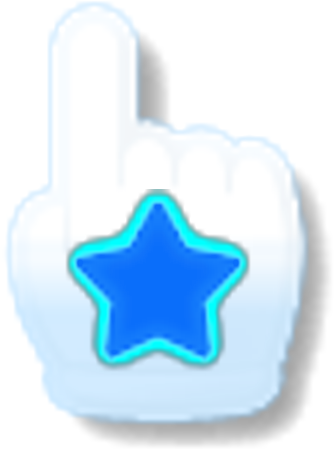
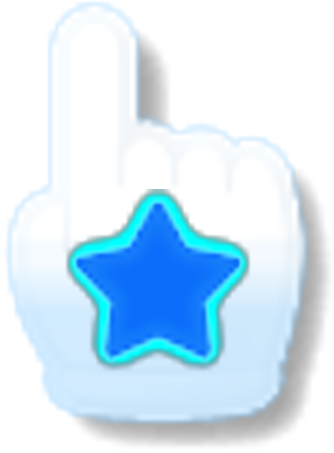
Cursor grips while clicking; together. fades in with reduced motion
The hand closes into the game's grip (HandPointerGrip from DPDPointer.arc)
while a mouse button is held: hand-cursor.js sets html.hand-grip, which
swaps the cursor variables in theme.css and docs.css.

With reduced motion on, together. used to just sit there; it now fades in
after the line instead of streaking in.

Claude-Session: https://claude.ai/code/session_01XvfxEsW8qNes6pdDzP8TgB

diff --git a/website/theme.css b/website/theme.css
@@ -57,6 +57,11 @@ html {
   --star-cursor-hover: url('/cursor/hand-pointer.png') 8 4, pointer;
   cursor: var(--star-cursor);
 }
+/* While a mouse button is held the hand grips (hand-cursor.js). */
+html.hand-grip {
+  --star-cursor: url('/cursor/hand-grip.png') 8 4, auto;
+  --star-cursor-hover: url('/cursor/hand-grip.png') 8 4, pointer;
+}
 a,
 button,
 summary,
@@ -912,6 +917,11 @@ tbody th {
     transform: scale(2.4);
   }
 }
+@keyframes together-fade {
+  from {
+    opacity: 0;
+  }
+}
 @keyframes together-shimmer {
   to {
     background-position: -200% 0;
@@ -1026,8 +1036,9 @@ tbody th {
   .together-word {
     animation: none;
   }
+  /* No streak or bob with reduced motion, but "together." still fades in after the line. */
   .tagline-together {
-    animation: none;
+    animation: together-fade 0.8s ease-out 1s both;
     transform: rotate(-4deg);
   }
   .tagline-together::before,

diff --git a/website/hand-cursor.js b/website/hand-cursor.js
@@ -1,0 +1,9 @@
+/** The hand pointer closes into the game's grip while a mouse button is held, as it does in the game's menus. */
+const root = document.documentElement;
+const release = () => root.classList.remove('hand-grip');
+addEventListener('pointerdown', (event) => {
+  if (event.pointerType === 'mouse') root.classList.add('hand-grip');
+});
+addEventListener('pointerup', release);
+addEventListener('pointercancel', release);
+addEventListener('blur', release);

diff --git a/website/docs.css b/website/docs.css
@@ -29,6 +29,11 @@ html {
   --star-cursor-hover: url('/cursor/hand-pointer.png') 8 4, pointer;
   cursor: var(--star-cursor);
 }
+/* While a mouse button is held the hand grips (hand-cursor.js). */
+html.hand-grip {
+  --star-cursor: url('/cursor/hand-grip.png') 8 4, auto;
+  --star-cursor-hover: url('/cursor/hand-grip.png') 8 4, pointer;
+}
 a,
 button,
 summary,

diff --git a/website/docs.js b/website/docs.js
@@ -1,4 +1,5 @@
 /** Modding docs: sidebar drawer, search, copy buttons and the "On this page" highlight. */
+import './hand-cursor.js';
 const sidebar = document.getElementById('docs-sidebar');
 const openers = document.querySelectorAll('.docs-menu-toggle');
 const setDrawer = (open) => {

diff --git a/website/site.js b/website/site.js
@@ -1,3 +1,4 @@
+import './hand-cursor.js';
 import { pageMessage } from './page-copy.js';
 import { fetchDownloadStats, fetchRepoStars } from './download-stats.js';
 const downloadCount = document.querySelector('[data-download-count]');
